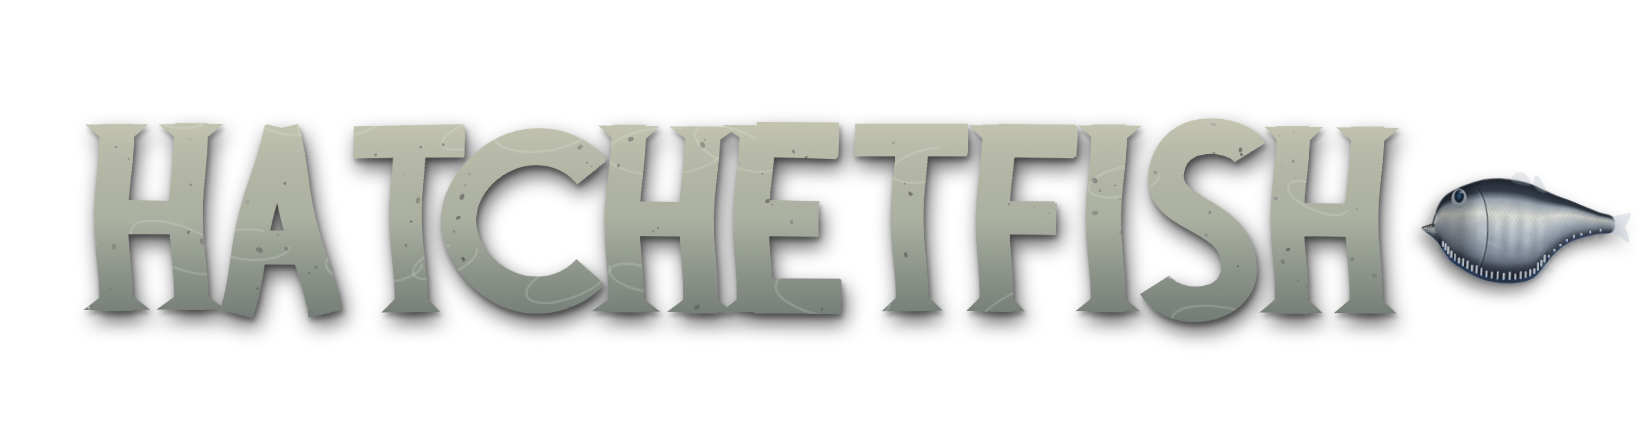
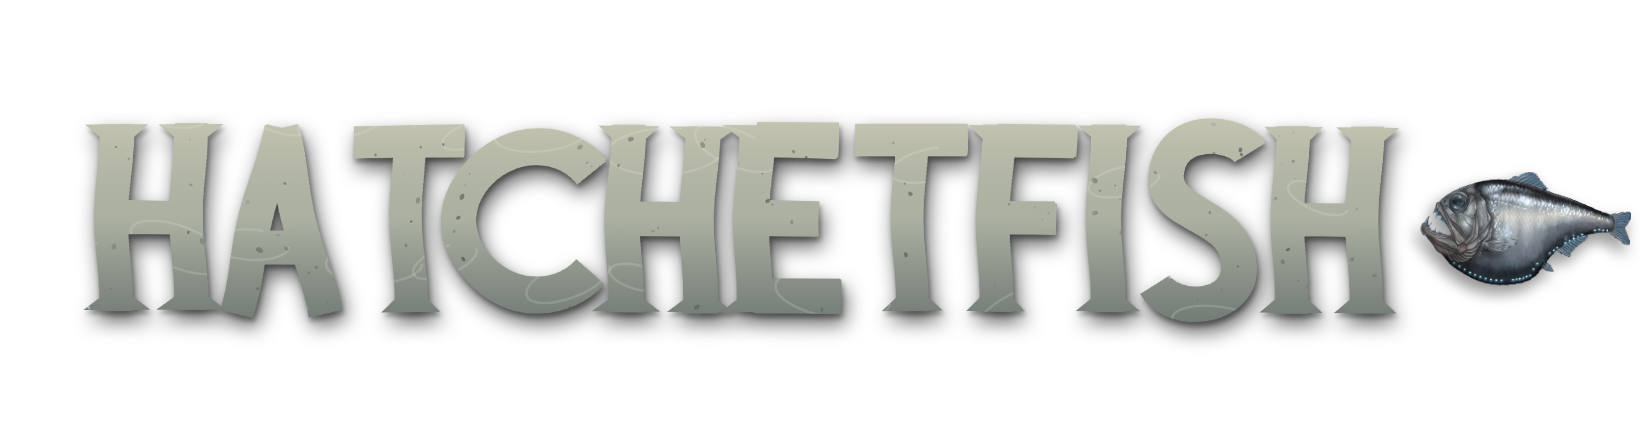
7.3.4: the hatchetfish is the owner's own painting (tools/ref/hatchetfish_owner.webp), only lifted off its blue and cropped (tools/hatchet_owner.py); it swims on the title and the loading bar (drawn in thin slices moved by a wave that grows toward the tail, the head nearly still; put together once a
Claude-Session: https://claude.ai/code/session_01KViiRYY5HFnTy3p7jvNZMS

Changed region(s): [[0.8396, 0.3841, 0.9951, 0.65]]

diff --git a/index.html b/index.html
@@ -81,8 +81,8 @@
   <link rel="preconnect" href="https://fonts.googleapis.com">
   <link rel="preconnect" href="https://fonts.gstatic.com" crossorigin>
   <link href="https://fonts.googleapis.com/css2?family=Barlow+Semi+Condensed:wght@400;500;600;700&display=block" rel="stylesheet">
-  <link rel="stylesheet" href="css/style.css?v=7.3.3">
-  <link rel="stylesheet" href="css/olive.css?v=7.3.3">
+  <link rel="stylesheet" href="css/style.css?v=7.3.4">
+  <link rel="stylesheet" href="css/olive.css?v=7.3.4">
   <style>
     /* (4.17.2) the loading screen, poster-style: the painting left alone (only a slow push-in), and over it, at the
        lower left, flat type in the sunset's own orange and a warm off-white: a stamped helmet mark, the title, a
@@ -216,7 +216,7 @@
     html body .ld .ld-bar:not(#_a):not(#_b) { aspect-ratio: 1000 / 80; background: url("assets/loading/wave.png") center / 100% 100% no-repeat !important; filter: none; overflow: visible !important; }
     html body .ld .ld-fill:not(#_a):not(#_b) { left: 0 !important; top: 0 !important; height: 100% !important; width: 100% !important; max-width: none !important; background: url("assets/loading/wave_fill.png") center / 100% 100% no-repeat !important; clip-path: inset(0 100% 0 0); }
     html body .ld .ld-fill:not(#_a):not(#_b)::after { content: none !important; display: none !important; }
-    html body .ld .ld-hf { position: absolute; top: 50%; left: 0; width: clamp(54px, 8vw, 76px); height: auto; transform: translate(-94%, -62%); /* (7.1.7) the fish's nose at the water's front, so a full bar never pushes it past the end */ filter: drop-shadow(0 3px 5px rgba(0,0,0,0.5)); animation: ld-hf 2.2s ease-in-out infinite; pointer-events: none; }
+    html body .ld .ld-hf { position: absolute; top: 50%; left: 0; width: clamp(54px, 8vw, 76px); height: auto; aspect-ratio: 240 / 150; transform: translate(-94%, -62%); /* (7.1.7) the fish's nose at the water's front, so a full bar never pushes it past the end */ filter: drop-shadow(0 3px 5px rgba(0,0,0,0.5)); animation: ld-hf 2.2s ease-in-out infinite; pointer-events: none; }
     @keyframes ld-hf { 0%, 100% { margin-top: 0; } 50% { margin-top: -3px; } }
     html body .ld .ld-pct:not(#_a):not(#_b) { transform: translate(20px, -50%) !important; color: rgba(214,222,210,0.75) !important; font-weight: 600 !important; }
     /* (7.1.7) the subtitle sits close under the name (the name's picture has open water below its letters); the hints are
@@ -232,7 +232,7 @@
   <div id="boot" class="ld" aria-label="Loading">
     <div class="ld-art"><div class="ld-stage"><picture><source media="(pointer: coarse) and (hover: none)" srcset="assets/loading/key-art-m.jpg"><img src="assets/loading/key-art.jpg" alt=""></picture><i class="ld-rays"></i><div class="ld-mon"><picture><source media="(pointer: coarse) and (hover: none)" srcset="assets/loading/ka-monster-m.png"><img src="assets/loading/ka-monster.png" alt=""></picture><i class="ld-eye"></i></div><i class="ld-lamp"></i><i class="ld-bub" style="--d:0s;--x:0px"></i><i class="ld-bub" style="--d:2.3s;--x:-3px"></i><i class="ld-bub" style="--d:4.1s;--x:2px"></i><i class="ld-snowbox"><i class="ld-snow"></i><i class="ld-snow ld-snow2"></i></i></div></div><div class="ld-shade"></div>
     <h1 class="ld-title"><img class="ld-name" src="assets/loading/title.png" alt="Hatchetfish"><span>Deep Sea Survival</span></h1>
-    <div class="ld-load"><span class="ld-step" aria-live="polite">Loading</span><div class="ld-bar"><i class="ld-fill"></i><img class="ld-hf" src="assets/loading/hatchetfish.png" alt=""></div><span class="ld-pct">0 m</span></div>
+    <div class="ld-load"><span class="ld-step" aria-live="polite">Loading</span><div class="ld-bar"><i class="ld-fill"></i><canvas class="ld-hf" width="240" height="150" aria-hidden="true"></canvas></div><span class="ld-pct">0 m</span></div>
     <div class="ld-tip"></div><span class="ld-ver"></span>
   </div>
   <script>
@@ -437,94 +437,104 @@
   <!-- stamp:start (tools/stamp.py) -->
   <script type="importmap">
   { "imports": {
-    "./js/abilities.js": "./js/abilities.js?v=7.3.3",
-    "./js/alarm.js": "./js/alarm.js?v=7.3.3",
-    "./js/aquarium.js": "./js/aquarium.js?v=7.3.3",
-    "./js/aquarium_draw.js": "./js/aquarium_draw.js?v=7.3.3",
-    "./js/arm.js": "./js/arm.js?v=7.3.3",
-    "./js/audio.js": "./js/audio.js?v=7.3.3",
-    "./js/autopilot.js": "./js/autopilot.js?v=7.3.3",
-    "./js/buoy_draw.js": "./js/buoy_draw.js?v=7.3.3",
-    "./js/cabin.js": "./js/cabin.js?v=7.3.3",
-    "./js/capture.js": "./js/capture.js?v=7.3.3",
-    "./js/catalog.js": "./js/catalog.js?v=7.3.3",
-    "./js/chart.js": "./js/chart.js?v=7.3.3",
-    "./js/chest_art.js": "./js/chest_art.js?v=7.3.3",
-    "./js/chests.js": "./js/chests.js?v=7.3.3",
-    "./js/clouds.js": "./js/clouds.js?v=7.3.3",
-    "./js/coin_art.js": "./js/coin_art.js?v=7.3.3",
-    "./js/coins.js": "./js/coins.js?v=7.3.3",
-    "./js/contracts.js": "./js/contracts.js?v=7.3.3",
-    "./js/creatures_draw.js": "./js/creatures_draw.js?v=7.3.3",
-    "./js/dave.js": "./js/dave.js?v=7.3.3",
-    "./js/dave_art.js": "./js/dave_art.js?v=7.3.3",
-    "./js/designs.js": "./js/designs.js?v=7.3.3",
-    "./js/earl_draw.js": "./js/earl_draw.js?v=7.3.3",
-    "./js/economy.js": "./js/economy.js?v=7.3.3",
-    "./js/entity.js": "./js/entity.js?v=7.3.3",
-    "./js/face_draw.js": "./js/face_draw.js?v=7.3.3",
-    "./js/fatfinger.js": "./js/fatfinger.js?v=7.3.3",
-    "./js/fauna.js": "./js/fauna.js?v=7.3.3",
-    "./js/fittings.js": "./js/fittings.js?v=7.3.3",
-    "./js/gallery.js": "./js/gallery.js?v=7.3.3",
-    "./js/gauge_art.js": "./js/gauge_art.js?v=7.3.3",
-    "./js/gear_art.js": "./js/gear_art.js?v=7.3.3",
-    "./js/glyphs.js": "./js/glyphs.js?v=7.3.3",
-    "./js/hud.js": "./js/hud.js?v=7.3.3",
-    "./js/hunters.js": "./js/hunters.js?v=7.3.3",
-    "./js/input.js": "./js/input.js?v=7.3.3",
-    "./js/item_art.js": "./js/item_art.js?v=7.3.3",
-    "./js/item_data.js": "./js/item_data.js?v=7.3.3",
-    "./js/item_words.js": "./js/item_words.js?v=7.3.3",
-    "./js/itemcard.js": "./js/itemcard.js?v=7.3.3",
-    "./js/items.js": "./js/items.js?v=7.3.3",
-    "./js/journal_tank.js": "./js/journal_tank.js?v=7.3.3",
-    "./js/kit_art.js": "./js/kit_art.js?v=7.3.3",
-    "./js/legendfx.js": "./js/legendfx.js?v=7.3.3",
-    "./js/main.js": "./js/main.js?v=7.3.3",
-    "./js/messages.js": "./js/messages.js?v=7.3.3",
-    "./js/monster_draw.js": "./js/monster_draw.js?v=7.3.3",
-    "./js/oldone.js": "./js/oldone.js?v=7.3.3",
-    "./js/pets.js": "./js/pets.js?v=7.3.3",
-    "./js/player.js": "./js/player.js?v=7.3.3",
-    "./js/purchases.js": "./js/purchases.js?v=7.3.3",
-    "./js/quests.js": "./js/quests.js?v=7.3.3",
-    "./js/render.js": "./js/render.js?v=7.3.3",
-    "./js/reveal.js": "./js/reveal.js?v=7.3.3",
-    "./js/scenery_draw.js": "./js/scenery_draw.js?v=7.3.3",
-    "./js/scrolls.js": "./js/scrolls.js?v=7.3.3",
-    "./js/settings.js": "./js/settings.js?v=7.3.3",
-    "./js/showcase.js": "./js/showcase.js?v=7.3.3",
-    "./js/sleeper_draw.js": "./js/sleeper_draw.js?v=7.3.3",
-    "./js/species.js": "./js/species.js?v=7.3.3",
-    "./js/species_looks.js": "./js/species_looks.js?v=7.3.3",
-    "./js/specimens.js": "./js/specimens.js?v=7.3.3",
-    "./js/station_draw.js": "./js/station_draw.js?v=7.3.3",
-    "./js/store.js": "./js/store.js?v=7.3.3",
-    "./js/suit_art.js": "./js/suit_art.js?v=7.3.3",
-    "./js/survey.js": "./js/survey.js?v=7.3.3",
-    "./js/tankroom.js": "./js/tankroom.js?v=7.3.3",
-    "./js/textures.js": "./js/textures.js?v=7.3.3",
-    "./js/title_art.js": "./js/title_art.js?v=7.3.3",
-    "./js/tokens.js": "./js/tokens.js?v=7.3.3",
-    "./js/tools_draw.js": "./js/tools_draw.js?v=7.3.3",
-    "./js/touch.js": "./js/touch.js?v=7.3.3",
-    "./js/trail.js": "./js/trail.js?v=7.3.3",
-    "./js/traps.js": "./js/traps.js?v=7.3.3",
-    "./js/tutspot.js": "./js/tutspot.js?v=7.3.3",
-    "./js/ui.js": "./js/ui.js?v=7.3.3",
-    "./js/undocumented_draw.js": "./js/undocumented_draw.js?v=7.3.3",
-    "./js/units.js": "./js/units.js?v=7.3.3",
-    "./js/util.js": "./js/util.js?v=7.3.3",
-    "./js/variants.js": "./js/variants.js?v=7.3.3",
-    "./js/version.js": "./js/version.js?v=7.3.3",
-    "./js/world.js": "./js/world.js?v=7.3.3",
-    "./data/species_about.js": "./data/species_about.js?v=7.3.3",
-    "./data/species_data.js": "./data/species_data.js?v=7.3.3",
-    "./data/species_more.js": "./data/species_more.js?v=7.3.3"
+    "./js/abilities.js": "./js/abilities.js?v=7.3.4",
+    "./js/alarm.js": "./js/alarm.js?v=7.3.4",
+    "./js/aquarium.js": "./js/aquarium.js?v=7.3.4",
+    "./js/aquarium_draw.js": "./js/aquarium_draw.js?v=7.3.4",
+    "./js/arm.js": "./js/arm.js?v=7.3.4",
+    "./js/audio.js": "./js/audio.js?v=7.3.4",
+    "./js/autopilot.js": "./js/autopilot.js?v=7.3.4",
+    "./js/buoy_draw.js": "./js/buoy_draw.js?v=7.3.4",
+    "./js/cabin.js": "./js/cabin.js?v=7.3.4",
+    "./js/capture.js": "./js/capture.js?v=7.3.4",
+    "./js/catalog.js": "./js/catalog.js?v=7.3.4",
+    "./js/chart.js": "./js/chart.js?v=7.3.4",
+    "./js/chest_art.js": "./js/chest_art.js?v=7.3.4",
+    "./js/chests.js": "./js/chests.js?v=7.3.4",
+    "./js/clouds.js": "./js/clouds.js?v=7.3.4",
+    "./js/coin_art.js": "./js/coin_art.js?v=7.3.4",
+    "./js/coins.js": "./js/coins.js?v=7.3.4",
+    "./js/contracts.js": "./js/contracts.js?v=7.3.4",
+    "./js/creatures_draw.js": "./js/creatures_draw.js?v=7.3.4",
+    "./js/dave.js": "./js/dave.js?v=7.3.4",
+    "./js/dave_art.js": "./js/dave_art.js?v=7.3.4",
+    "./js/designs.js": "./js/designs.js?v=7.3.4",
+    "./js/earl_draw.js": "./js/earl_draw.js?v=7.3.4",
+    "./js/economy.js": "./js/economy.js?v=7.3.4",
+    "./js/entity.js": "./js/entity.js?v=7.3.4",
+    "./js/face_draw.js": "./js/face_draw.js?v=7.3.4",
+    "./js/fatfinger.js": "./js/fatfinger.js?v=7.3.4",
+    "./js/fauna.js": "./js/fauna.js?v=7.3.4",
+    "./js/fittings.js": "./js/fittings.js?v=7.3.4",
+    "./js/gallery.js": "./js/gallery.js?v=7.3.4",
+    "./js/gauge_art.js": "./js/gauge_art.js?v=7.3.4",
+    "./js/gear_art.js": "./js/gear_art.js?v=7.3.4",
+    "./js/glyphs.js": "./js/glyphs.js?v=7.3.4",
+    "./js/hud.js": "./js/hud.js?v=7.3.4",
+    "./js/hunters.js": "./js/hunters.js?v=7.3.4",
+    "./js/input.js": "./js/input.js?v=7.3.4",
+    "./js/item_art.js": "./js/item_art.js?v=7.3.4",
+    "./js/item_data.js": "./js/item_data.js?v=7.3.4",
+    "./js/item_words.js": "./js/item_words.js?v=7.3.4",
+    "./js/itemcard.js": "./js/itemcard.js?v=7.3.4",
+    "./js/items.js": "./js/items.js?v=7.3.4",
+    "./js/journal_tank.js": "./js/journal_tank.js?v=7.3.4",
+    "./js/kit_art.js": "./js/kit_art.js?v=7.3.4",
+    "./js/legendfx.js": "./js/legendfx.js?v=7.3.4",
+    "./js/main.js": "./js/main.js?v=7.3.4",
+    "./js/messages.js": "./js/messages.js?v=7.3.4",
+    "./js/monster_draw.js": "./js/monster_draw.js?v=7.3.4",
+    "./js/oldone.js": "./js/oldone.js?v=7.3.4",
+    "./js/pets.js": "./js/pets.js?v=7.3.4",
+    "./js/player.js": "./js/player.js?v=7.3.4",
+    "./js/purchases.js": "./js/purchases.js?v=7.3.4",
+    "./js/quests.js": "./js/quests.js?v=7.3.4",
+    "./js/render.js": "./js/render.js?v=7.3.4",
+    "./js/reveal.js": "./js/reveal.js?v=7.3.4",
+    "./js/scenery_draw.js": "./js/scenery_draw.js?v=7.3.4",
+    "./js/scrolls.js": "./js/scrolls.js?v=7.3.4",
+    "./js/settings.js": "./js/settings.js?v=7.3.4",
+    "./js/showcase.js": "./js/showcase.js?v=7.3.4",
+    "./js/sleeper_draw.js": "./js/sleeper_draw.js?v=7.3.4",
+    "./js/species.js": "./js/species.js?v=7.3.4",
+    "./js/species_looks.js": "./js/species_looks.js?v=7.3.4",
+    "./js/specimens.js": "./js/specimens.js?v=7.3.4",
+    "./js/station_draw.js": "./js/station_draw.js?v=7.3.4",
+    "./js/store.js": "./js/store.js?v=7.3.4",
+    "./js/suit_art.js": "./js/suit_art.js?v=7.3.4",
+    "./js/survey.js": "./js/survey.js?v=7.3.4",
+    "./js/tankroom.js": "./js/tankroom.js?v=7.3.4",
+    "./js/textures.js": "./js/textures.js?v=7.3.4",
+    "./js/title_art.js": "./js/title_art.js?v=7.3.4",
+    "./js/tokens.js": "./js/tokens.js?v=7.3.4",
+    "./js/tools_draw.js": "./js/tools_draw.js?v=7.3.4",
+    "./js/touch.js": "./js/touch.js?v=7.3.4",
+    "./js/trail.js": "./js/trail.js?v=7.3.4",
+    "./js/traps.js": "./js/traps.js?v=7.3.4",
+    "./js/tutspot.js": "./js/tutspot.js?v=7.3.4",
+    "./js/ui.js": "./js/ui.js?v=7.3.4",
+    "./js/undocumented_draw.js": "./js/undocumented_draw.js?v=7.3.4",
+    "./js/units.js": "./js/units.js?v=7.3.4",
+    "./js/util.js": "./js/util.js?v=7.3.4",
+    "./js/variants.js": "./js/variants.js?v=7.3.4",
+    "./js/version.js": "./js/version.js?v=7.3.4",
+    "./js/world.js": "./js/world.js?v=7.3.4",
+    "./data/species_about.js": "./data/species_about.js?v=7.3.4",
+    "./data/species_data.js": "./data/species_data.js?v=7.3.4",
+    "./data/species_more.js": "./data/species_more.js?v=7.3.4"
   } }
   </script>
   <script type="module">if (!window.__shell) import("./js/main.js");</script>
   <!-- stamp:end -->
+<script>/* (7.3.4, owner) the loading bar's hatchetfish swims (as js/title_art.js swimDraw) */
+(function () { var c = document.querySelector('.ld .ld-hf'); if (!c) return; var x = c.getContext('2d'), im = new Image(), t0 = performance.now();
+  im.src = 'assets/loading/hatchetfish.png';
+  function frame(now) { if (!c.isConnected) return; var ld = c.closest('.ld'); if (ld && (ld.hidden || getComputedStyle(ld).display === 'none' || ld.classList.contains('gone'))) return; requestAnimationFrame(frame); if (!im.complete || !im.naturalWidth) return;
+    var t = (now - t0) / 1000, W = c.width, H = c.height, dh = W * im.naturalHeight / im.naturalWidth, dy = (H - dh) / 2, n = 24, sw = im.naturalWidth / n, w = W / n;
+    x.clearRect(0, 0, W, H);
+    for (var i = 0; i < n; i++) { var u = (i + 0.5) / n, tail = Math.pow(1 - u, 1.8), off = Math.sin(t * 6 - u * 4.2) * dh * 0.08 * tail;
+      x.drawImage(im, i * sw, 0, sw + 0.6, im.naturalHeight, i * w, dy + off, w + 0.6, dh); } }
+  requestAnimationFrame(frame); })();
+</script>
 </body>
 </html>

diff --git a/js/title_art.js b/js/title_art.js
@@ -67,8 +67,29 @@ function letters(scale) {
 // (7.1.7) the painted hatchetfish (tools/hatchet_kit.py): a silver blade with tube eyes and its belly's lights; the drawn
 // one below stays only until the picture has loaded
 const HF = typeof Image !== 'undefined' ? Object.assign(new Image(), { src: 'assets/loading/hatchetfish.png' }) : null;
+// (7.3.4, owner) it swims: the picture drawn in thin upright slices, each moved up or down by a wave that travels from
+// head to tail and grows toward the tail (the head almost still, the tail sweeping widest), so the body bends as a
+// fish's does. The same in index.html's loading bar (its own copy, since it runs before any of this loads)
+// (the slices are put together once a frame on a small canvas of their own, which is then drawn as one picture: the
+// title draws it twice, once blurred for its shadow, and a blur on every slice cost two thirds of the frame rate)
+let SWIM = null, SWIM_T = -1;
+export function swimDraw(x, img, dx, dy, dw, dh, t) {
+  const W = Math.max(8, Math.round(dw)), pad = Math.round(dh * 0.12), H = Math.max(8, Math.round(dh)) + pad * 2;
+  if (!SWIM) SWIM = document.createElement('canvas');
+  if (SWIM.width !== W || SWIM.height !== H || SWIM_T !== t) {
+    if (SWIM.width !== W || SWIM.height !== H) { SWIM.width = W; SWIM.height = H; }
+    const k = SWIM.getContext('2d'); k.clearRect(0, 0, W, H); SWIM_T = t;
+    const n = 28, sw = img.naturalWidth / n, w = W / n;
+    for (let i = 0; i < n; i++) {
+      const u = (i + 0.5) / n, tail = Math.pow(1 - u, 1.8); // u 0 the tail .. 1 the nose (it faces right)
+      const off = Math.sin(t * 5.2 - u * 4.2) * dh * 0.07 * tail + Math.sin(t * 1.3) * dh * 0.012;
+      k.drawImage(img, i * sw, 0, sw + 0.6, img.naturalHeight, i * w, pad + off, w + 0.6, dh);
+    }
+  }
+  x.drawImage(SWIM, dx, dy - pad * (dh / (H - pad * 2)), dw, dh * H / (H - pad * 2));
+}
 function drawHatchetfish(x, L, t) {
-  if (HF && HF.complete && HF.naturalWidth) { const h = L * HF.naturalHeight / HF.naturalWidth; x.drawImage(HF, 0, L * 0.68 / 2 - h / 2, L * 1.08, h * 1.08); return; }
+  if (HF && HF.complete && HF.naturalWidth) { const h = L * HF.naturalHeight / HF.naturalWidth; swimDraw(x, HF, 0, L * 0.68 / 2 - h / 2, L * 1.08, h * 1.08, t); return; }
   const s = L / 100;
   x.save(); x.scale(s, s);
   x.fillStyle = 'rgba(140,150,140,0.55)'; x.beginPath(); x.moveTo(4, 20); x.lineTo(18, 31); x.lineTo(4, 42); x.lineTo(9, 31); x.closePath(); x.fill(); // tail

diff --git a/js/main.js b/js/main.js
@@ -164,7 +164,7 @@ function applySuit(e, P) {
 function applySub(sub, P) {
   sub.ratedV = statValue(P, 'depth'); // (4.16.8: no relics)
   sub.o2V = SUB_AIR[lv(P, 'depth')] * ((P.addons || {}).airBank ? 1.5 : 1); // (the spare air bank adds half again) the cabin air comes with the submersible ((claude-polish) this sat inside the comment above: every hull had the first one's two minutes)
-  sub.speedMul = statValue(P, 'subSpeed'); sub.ballast = statValue(P, 'ballast'); // (4.13.0) the engine alone sets her speed: 50 steps to 3x
+  sub.speedMul = statValue(P, 'subSpeed'); sub.ballast = statValue(P, 'ballast'); // (each sub's own speed and ballast: the old 50-step engine refit is retired)
   sub.level = lv(P, 'depth');
 }
 // (5.10.10) the X developer key is gone (the owner's call): nothing in a phone game is reached by a key

diff --git a/js/version.js b/js/version.js
@@ -1,3 +1,3 @@
 // The game's version. Bumped with every change: the last number for small fixes and tweaks,
 // the middle one for new features or bigger changes, the first for a major overhaul.
-export const VERSION = '7.3.3';
+export const VERSION = '7.3.4';

diff --git a/tools/hatchet_owner.py b/tools/hatchet_owner.py
@@ -1,0 +1,43 @@
+#!/usr/bin/env python3
+"""(7.3.4, owner) The loading screen's and title's hatchetfish is the owner's own painting (tools/ref/hatchetfish_owner.webp),
+used as it is: only lifted off its flat blue (the see-through fins and the open mouth kept see-through) and cropped.
+
+    python3 tools/hatchet_owner.py            -> assets/loading/hatchetfish.png
+"""
+import os
+import numpy as np
+from PIL import Image, ImageDraw, ImageFilter
+
+HERE = os.path.dirname(os.path.abspath(__file__))
+SRC = os.path.join(HERE, 'ref', 'hatchetfish_owner.webp')
+OUT = os.path.join(HERE, '..', 'assets', 'loading', 'hatchetfish.png')
+BG = np.array([30, 71, 100], np.float32)
+
+
+def build(out_w=960):
+    rgb = np.asarray(Image.open(SRC).convert('RGB'), np.float32)
+    H, W = rgb.shape[:2]
+    d = np.sqrt(((rgb - BG) ** 2).sum(-1))
+    a = np.clip((d - 8) / 60, 0, 1)                                  # how far from the blue: 0 the water, 1 the fish
+    # the body is solid wherever it is enclosed: close the outline's small gaps, flood the water in from every edge,
+    # then give back what the closing added; whatever the water does not reach is fish
+    closed = Image.fromarray(((a > 0.35) * 255).astype(np.uint8)).filter(ImageFilter.MaxFilter(9)).copy()
+    for x in range(0, W, 8):
+        for y in (0, H - 1):
+            if closed.getpixel((x, y)) == 0: ImageDraw.floodfill(closed, (x, y), 128)
+    for y in range(0, H, 8):
+        for x in (0, W - 1):
+            if closed.getpixel((x, y)) == 0: ImageDraw.floodfill(closed, (x, y), 128)
+    inside = (np.asarray(closed) != 128).astype(np.uint8) * 255
+    body = np.asarray(Image.fromarray(inside).filter(ImageFilter.MinFilter(13)).filter(ImageFilter.GaussianBlur(1.5)), np.float32) / 255
+    a = np.maximum(a, body)
+    fg = (rgb - (1 - a[..., None]) * BG) / np.maximum(a[..., None], 0.05)   # the blue taken back out of the see-through parts
+    img = Image.fromarray(np.dstack([np.clip(fg, 0, 255), a * 255]).astype(np.uint8), 'RGBA')
+    img = img.crop(img.getbbox())
+    img = img.resize((out_w, int(out_w * img.height / img.width)), Image.LANCZOS)
+    img.save(OUT, optimize=True)
+    return img
+
+
+if __name__ == '__main__':
+    im = build(); print('hatchetfish.png', im.size)

diff --git a/tools/hatchet_kit.py b/tools/hatchet_kit.py
@@ -515,7 +515,7 @@ def wave(full):
 
 
 if __name__ == '__main__':
-    fish4().save(OUT + 'hatchetfish.png', optimize=True)  # (7.3.3, owner) the traced outline, painted in the game's hand
+    # (7.3.4, owner) the hatchetfish is now the owner's own painting: tools/hatchet_owner.py writes it; nothing here does
     wave(False).save(OUT + 'wave.png', optimize=True)
     wave(True).save(OUT + 'wave_fill.png', optimize=True)
     print('painted')

diff --git a/README.md b/README.md
@@ -1,6 +1,6 @@
 # Hatchetfish — Deep Sea Survival
 
-Version 7.3.3 (shown on the home screen and in the pause menu; see `js/version.js`).
+Version 7.3.4 (shown on the home screen and in the pause menu; see `js/version.js`).
 
 A 2D ocean diving and survival horror game that runs in the browser (desktop).
 
